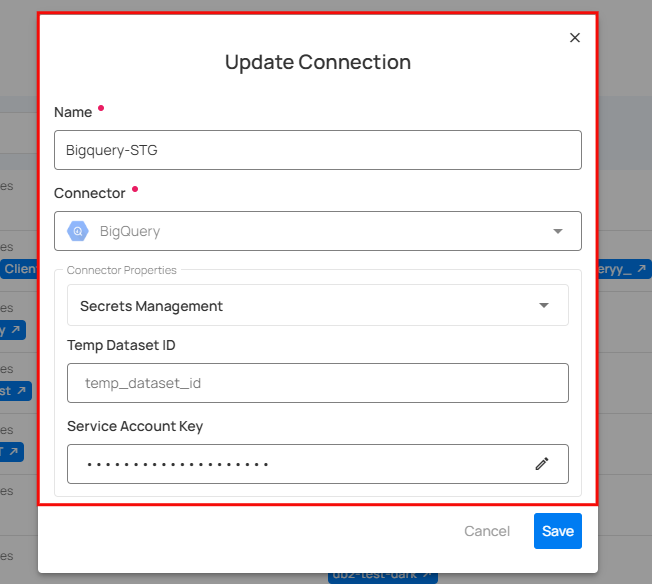
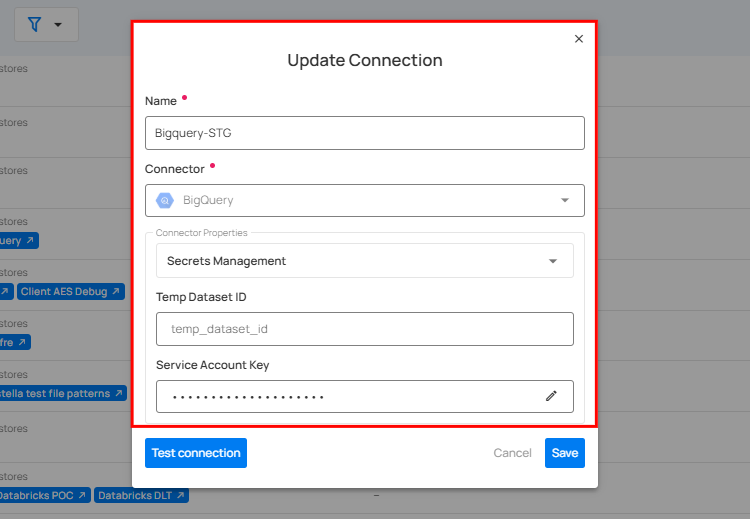
QUA-877: Update "Connection" userguide as per the latest release.

diff --git a/docs/settings/connections/manage-connections.md b/docs/settings/connections/manage-connections.md
@@ -8,13 +8,11 @@ Let's get started 🚀
 
 **Step 1**: Log in to your Qualytics account and click the **Settings** button on the left side panel of the interface. 
 
-![global-setting](../../assets/connections/global-setting-light-1.png#only-light)
-![global-setting](../../assets/connections/global-setting-dark-1.png#only-dark)
+![global-setting](../../assets/connections/global-setting-light-1.png)
 
-**Step 2**: By default, you will be navigated to the **Tags** section. Click on the **Connection** tab.
+**Step 2**: By default, you will be navigated to the **Connections** section.
 
-![connections](../../assets/connections/connections-light-2.png#only-light)
-![connections](../../assets/connections/connections-dark-2.png#only-dark)
+![connections](../../assets/connections/connections-light-2.png)
 
 ## Manage Connection
 
@@ -25,33 +23,29 @@ You can effectively manage your connections by editing, deleting, and adding dat
 
 ### Edit Connection
 
-You can edit connections to update details like name, account, role, warehouse, and authentication to improve performance. This keeps connection settings up-to-date and suited to your data needs.
+You can edit connections to update details such as name, account, role, warehouse, and authentication to improve performance. This keeps connection settings up-to-date and suited to your data needs.
 
 !!! note
     You can only edit the connection name and connection details, but you are not able to edit the connector itself.
 
 **Step 1**: Click the **vertical ellipsis (⋮)** next to the connection that you want to edit, then click on **Edit** from the dropdown menu.
 
-![edit](../../assets/connections/edit-light-3.png#only-light)
-![edit](../../assets/connections/edit-dark-3.png#only-dark)
+![edit](../../assets/connections/edit-light-3.png)
 
 **Step 2**: **Edit** the connection details as needed.
 
 !!! note 
     Connection details vary from connection to connection, which means that each connection may have its unique configuration settings.
 
-![connection-details](../../assets/connections/connection-details-light-4.png#only-light)
-![connection-details](../../assets/connections/connection-details-dark-4.png#only-dark)
+![connection-details](../../assets/connections/connection-details-light-4.png)
 
-**Step 3**: Once you have updated the values, click on the **Save** button to apply your changes.
+**Step 3**: Once you have updated the values, click on the **Test Connection** button to check and verify its connection.
 
-![save-connection](../../assets/connections/save-connection-light-5.png#only-light)
-![save-connection](../../assets/connections/save-connection-dark-5.png#only-dark)
+![test-connection](../../assets/connections/test-connection-light.png)
 
-**Step 4**: After clicking the **Save** button, your connection will be updated, and a success message will display saying **The Connection has been successfully updated**.
+**Step 4**: After the connection is verified, click on the **Save** button to save the changes.
 
-![connection-updated](../../assets/connections/connection-updated-light-6.png#only-light)
-![connection-updated](../../assets/connections/connection-updated-dark-6.png#only-dark)
+![save-connection](../../assets/connections/save-connection-light-5.png)
 
 ### Delete Connection
 
@@ -59,21 +53,18 @@ This allows you to remove outdated or unnecessary connections to maintain a clea
 
 **Step 1**: Click the **vertical ellipsis (⋮)** next to the connection that you want to delete, then click on **Delete** from the dropdown menu.
 
-![delete](../../assets/connections/delete-light-7.png#only-light)
-![delete](../../assets/connections/delete-dark-7.png#only-dark)
+![delete](../../assets/connections/delete-light-7.png)
 
 **Step 2**: A modal window **Delete Connection** will appear.
 
 !!! warning 
-    Source Datastores and Enrichment Datastores associated must be removed before deleting the connection
+    Source Datastores and Enrichment Datastores associated must be removed before deleting the connection.
 
-![delete-window](../../assets/connections/delete-window-light-8.png#only-light)
-![delete-window](../../assets/connections/delete-window-dark-8.png#only-dark)
+![delete-window](../../assets/connections/delete-window-light-8.png)
 
 **Step 3**: Enter the **Name of the Connection** in the given field (confirmation check) and then click on the **I’M SURE, DELETE THIS CONNECTION** button to delete the connection.
 
-![confirm-delete](../../assets/connections/confirm-delete-light-9.png#only-light)
-![confirm-delete](../../assets/connections/confirm-delete-dark-9.png#only-dark)
+![confirm-delete](../../assets/connections/confirm-delete-light-9.png)
 
 ### Add Datastore
 
@@ -81,33 +72,26 @@ You can add new or existing datastores and enrichment datastores directly from t
 
 **Step 1**: Click the **vertical ellipsis (⋮)** next to the connection where you want to add a datastore, then click on **Add Datastore** from the dropdown menu.
 
-![add-datastore](../../assets/connections/add-datastore-light-10.png#only-light)
-![add-datastore](../../assets/connections/add-datastore-dark-10.png#only-dark)
+![add-datastore](../../assets/connections/add-datastore-light-10.png)
 
 A modal window labeled **Add Datastore** will appear, giving you options to connect a datastore. For more information on adding a datastore, please refer to the [Configuring Source Datastores](../../add-datastores/overview-of-a-datastore.md#configuring-source-datastores) section.
 
-Once you have successfully added a datastore to the connection, a success message will appear saying, **Your datastore has been successfully added.**
-
-![datastore-added](../../assets/connections/datastore-added-light-11.png#only-light)
-![datastore-added](../../assets/connections/datastore-added-dark-11.png#only-dark)
+Once you have successfully added a datastore to the connection, a success message will appear.
 
 ### View Connection
 
 Once you have added a new datastore and enrichment datastore, you can view them in the connections list.
 
-![view-connections](../../assets/connections/view-connections-light-12.png#only-light)
-![view-connections](../../assets/connections/view-connections-dark-12.png#only-dark)
+![view-connections](../../assets/connections/view-connections-light-12.png)
 
 ### Sort Connection
 
 You can sort your connections by **Name** and **Created Date** to easily find and manage them.
 
-![sort-connection](../../assets/connections/sort-connection-light-13.png#only-light)
-![sort-connection](../../assets/connections/sort-connection-dark-13.png#only-dark)
+![sort-connection](../../assets/connections/sort-connection-light-13.png)
 
 ### Filter Connection
 
 You can filter connections by selecting specific data source types from the dropdown menu, making it easier to locate and manage the desired connections.
 
-![filter](../../assets/connections/filter-light-14.png#only-light)
-![filter](../../assets/connections/filter-dark-14.png#only-dark)
+![filter](../../assets/connections/filter-light-14.png)
